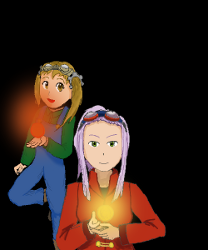
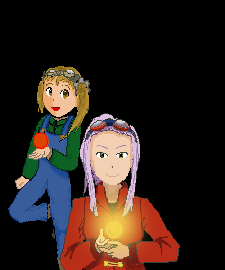
Better main menu image

diff --git a/source/Scenes/MainMenu.py b/source/Scenes/MainMenu.py
@@ -71,7 +71,7 @@ class MainMenuScene:
       start = render_text_size(20, "Start", WHITE, MENU_FONT)
       setup = render_text_size(20, "Setup", WHITE, MENU_FONT) 
       credits = render_text_size(20, "Credits", WHITE, MENU_FONT) 
-      art = ImageLib.FromFile(os.path.join('images', 'misc', 'mm-alt.png'))
+      art = ImageLib.FromFile(os.path.join('images', 'misc', 'mainmenu-bg.png'))
       
       titleOffset = (int((screen.get_width() - title.get_width()) / 2), 20)
       startOffset = (100, 100)
